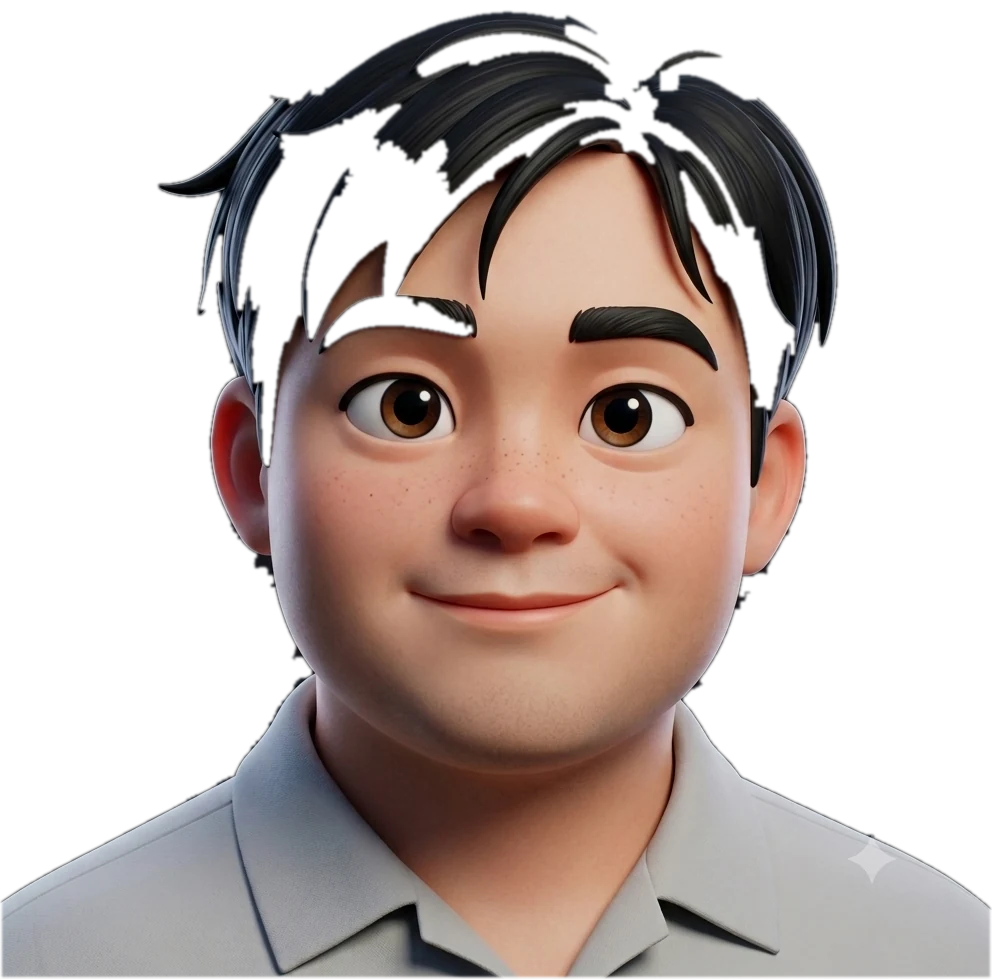
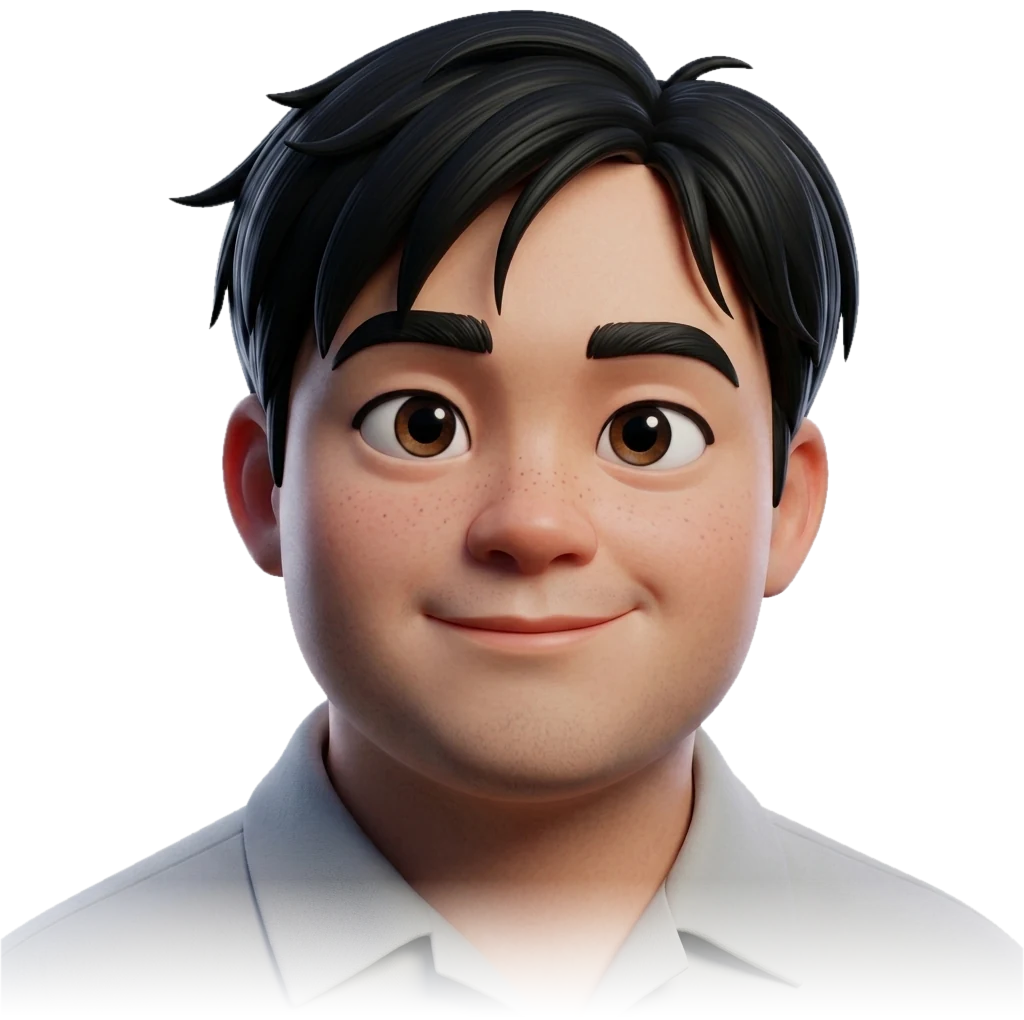
Convert to SAP consultant portfolio

diff --git a/src/sections/HeroSection.tsx b/src/sections/HeroSection.tsx
@@ -28,28 +28,34 @@ export default function HeroSection() {
         </ul>
       </FadeIn>
 
-      {/* Portrait */}
-      <FadeIn
-        delay={0.6}
-        y={30}
-        className="pointer-events-none absolute left-1/2 top-1/2 z-10 w-[280px] -translate-x-1/2 -translate-y-1/2 sm:w-[360px] md:w-[440px] lg:w-[520px]"
-      >
-        <Magnet
-          padding={150}
-          strength={3}
-          activeTransition="transform 0.3s ease-out"
-          inactiveTransition="transform 0.6s ease-in-out"
-          wrapperClassName="w-full"
-          innerClassName="w-full"
+      {/* Portrait.
+          Centring lives on this plain wrapper, NOT on the FadeIn. Framer Motion
+          writes `transform` into the inline style, which beats Tailwind's
+          -translate-x-1/2 utility class, so a motion element cannot be centred
+          that way. Flex centring uses no transform, so the two never collide. */}
+      <div className="pointer-events-none absolute inset-0 z-10 flex items-center justify-center">
+        <FadeIn
+          delay={0.6}
+          y={30}
+          className="w-[280px] sm:w-[360px] md:w-[440px] lg:w-[520px]"
         >
-          <img
-            src={PORTRAIT_SRC}
-            alt="Portrait of Yosapat"
-            className="block h-auto w-full select-none"
-            draggable={false}
-          />
-        </Magnet>
-      </FadeIn>
+          <Magnet
+            padding={150}
+            strength={3}
+            activeTransition="transform 0.3s ease-out"
+            inactiveTransition="transform 0.6s ease-in-out"
+            wrapperClassName="w-full"
+            innerClassName="w-full"
+          >
+            <img
+              src={PORTRAIT_SRC}
+              alt="Portrait of Yosapat"
+              className="block h-auto w-full select-none"
+              draggable={false}
+            />
+          </Magnet>
+        </FadeIn>
+      </div>
 
       {/* Heading */}
       <div className="relative z-0 overflow-hidden">

diff --git a/README.md b/README.md
@@ -30,7 +30,7 @@ src/sections/
   ExperienceSection.tsx       sticky card stack, four real roles
   ContactSection.tsx          email + LinkedIn
 src/data/experience.ts        work history content
-public/yosapat-portrait.webp  hero portrait (transparent, 79 KB)
+public/yosapat-portrait.webp  hero portrait (transparent, bottom-faded, 64 KB)
 netlify.toml                  build command, publish dir, Node 20
 ```
 
@@ -52,6 +52,11 @@ netlify.toml                  build command, publish dir, Node 20
   Kanit 900 with `tracking-tight`. The sizes `10 / 10.7 / 11.4 / 12.5vw` were derived from
   that so the line spans the viewport without clipping. Change the name and you must
   re-derive them — `whitespace-nowrap` means overflow is silently cut, not wrapped.
+- **Never centre a Framer Motion element with Tailwind's `-translate-x-1/2`.** Motion writes
+  `transform` into the inline style, which beats the utility class, so the element silently
+  lands half its own width to the right. The hero portrait is centred by a plain flex wrapper
+  (`absolute inset-0 flex items-center justify-center`) with `FadeIn` inside it — positioning
+  and animation kept on separate elements.
 - **Section ids are the nav targets.** `about`, `services`, `experience`, `contact` in
   `HeroSection`'s `NAV_LINKS` are lowercased to build the anchors. Rename a label and you
   must rename the matching section `id`.
